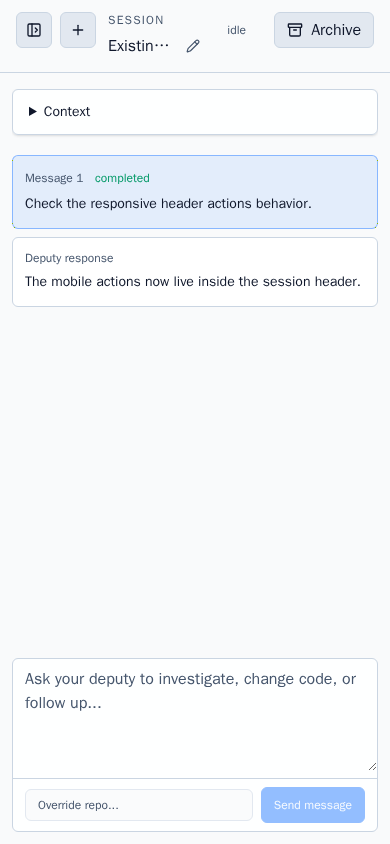
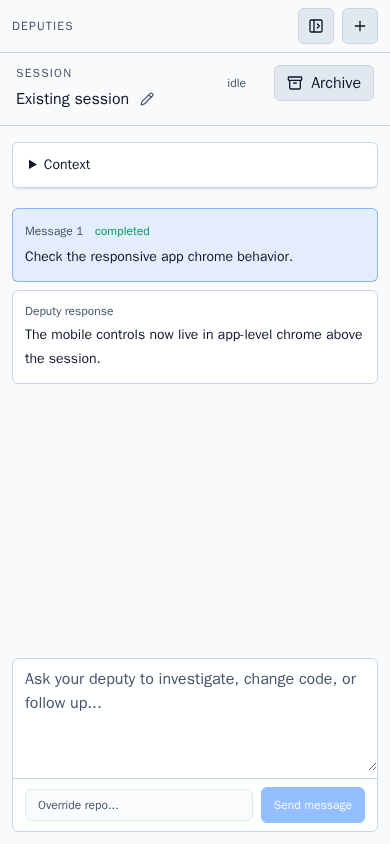
Move mobile controls to app chrome

diff --git a/apps/web/src/app.tsx b/apps/web/src/app.tsx
@@ -1,4 +1,4 @@
-import { FormEvent, KeyboardEvent, ReactNode, SyntheticEvent, WheelEvent, useEffect, useLayoutEffect, useMemo, useRef, useState } from 'react';
+import { FormEvent, KeyboardEvent, SyntheticEvent, WheelEvent, useEffect, useLayoutEffect, useMemo, useRef, useState } from 'react';
 import { AlertTriangle, Archive, Check, ChevronDown, Copy, Monitor, Moon, PanelLeftClose, PanelLeftOpen, Pencil, Plus, RefreshCw, RotateCcw, Sun, X } from 'lucide-react';
 import ReactMarkdown from 'react-markdown';
 import remarkGfm from 'remark-gfm';
@@ -868,6 +868,13 @@ export function App() {
       {startupLoading ? <StartupLoadingPanel connectionStatus={connectionStatus} /> : bearerAuthRequired && !token ? <BearerAuthPanel draftToken={draftToken} setDraftToken={setDraftToken} saveToken={saveToken} /> : sessionAuthRequired && !currentUser ? <SessionAuthPanel password={loginPassword} provider={health?.authProvider ?? 'static'} username={loginUsername} onPasswordChange={setLoginPassword} onSubmit={handleLogin} onUsernameChange={setLoginUsername} /> : (
         <>
 
+      {!sidebarOpen ? (
+        <div className="flex shrink-0 items-center justify-between border-b border-border bg-background/95 px-3 py-2 backdrop-blur md:hidden">
+          <span className="text-xs font-semibold uppercase tracking-widest text-muted-foreground">Deputies</span>
+          <MobileSessionActions canCallApi={canCallApi} onNewThread={startNewThread} onOpenSidebar={expandSidebar} />
+        </div>
+      ) : null}
+
       <section className={cn('grid min-h-0 flex-1 grid-cols-1', sidebarCollapsed ? 'md:grid-cols-[3.75rem_minmax(0,1fr)]' : 'md:grid-cols-[18rem_minmax(0,1fr)]')}>
         {sidebarCollapsed ? (
           <aside className="hidden min-h-0 border-r border-border bg-card/95 p-3 md:flex">
@@ -913,7 +920,6 @@ export function App() {
               <NewThreadPanel
                 canCallApi={canCallApi}
                 loading={loading}
-                mobileActions={<MobileSessionActions canCallApi={canCallApi} onNewThread={startNewThread} onOpenSidebar={expandSidebar} />}
                 prompt={newThreadPrompt}
                 repository={newThreadRepository}
                 onPromptChange={setNewThreadPrompt}
@@ -924,7 +930,6 @@ export function App() {
             <section className="flex h-full min-h-0 flex-col">
               <ThreadHeader
                 editingTitle={editingTitle}
-                mobileActions={<MobileSessionActions canCallApi={canCallApi} onNewThread={startNewThread} onOpenSidebar={expandSidebar} />}
                 selectedSession={selectedSession}
                 titleDraft={titleDraft}
                 onArchive={handleArchiveSession}
@@ -1286,7 +1291,6 @@ function MobileSessionActions(props: {
 function NewThreadPanel(props: {
   canCallApi: boolean;
   loading: boolean;
-  mobileActions?: ReactNode;
   prompt: string;
   repository: string;
   onPromptChange: (value: string) => void;
@@ -1296,7 +1300,6 @@ function NewThreadPanel(props: {
   return (
     <section className="grid min-h-screen place-items-center px-4">
       <Card className="w-full max-w-2xl p-5">
-        {props.mobileActions ? <div className="mb-4 flex md:hidden">{props.mobileActions}</div> : null}
         <p className="text-xs font-semibold uppercase tracking-widest text-primary">Deputies</p>
         <h1 className="mt-2 text-3xl font-semibold tracking-tight text-foreground">Engineering agents for delegated work.</h1>
         <p className="mt-2 text-sm text-muted-foreground">Assign follow-ups, watch the work trail, and inspect the results.</p>
@@ -1354,7 +1357,6 @@ function MessageComposer(props: {
 
 function ThreadHeader(props: {
   editingTitle: boolean;
-  mobileActions?: ReactNode;
   selectedSession: Session;
   titleDraft: string;
   onArchive: () => void;
@@ -1364,8 +1366,7 @@ function ThreadHeader(props: {
   onUpdateTitle: (event: FormEvent) => void;
 }) {
   return (
-    <section className="sticky top-0 z-20 grid grid-cols-[auto_minmax(0,1fr)_auto] items-start gap-3 border-b border-border bg-background/95 px-4 py-3 backdrop-blur md:grid-cols-[minmax(0,1fr)_auto]">
-      {props.mobileActions ? <div className="md:hidden">{props.mobileActions}</div> : null}
+    <section className="sticky top-0 z-20 grid grid-cols-[minmax(0,1fr)_auto] items-start gap-3 border-b border-border bg-background/95 px-4 py-3 backdrop-blur">
       <div className="min-w-0 overflow-hidden">
         <p className="text-xs font-semibold uppercase tracking-widest text-muted-foreground">Session</p>
         {props.editingTitle ? (

diff --git a/apps/web/e2e/responsive-context.spec.ts b/apps/web/e2e/responsive-context.spec.ts
@@ -25,7 +25,7 @@ test('keeps context collapsed by default on narrow screens', async ({ page }) =>
   expect(messageLogHeight).toBeGreaterThan(300);
 });
 
-test('keeps mobile session controls in the header without covering the session title', async ({ page }) => {
+test('keeps mobile session controls in app chrome without covering the session title', async ({ page }) => {
   await page.setViewportSize({ width: 390, height: 844 });
   await page.goto('/');
 
@@ -39,7 +39,7 @@ test('keeps mobile session controls in the header without covering the session t
 
   const controlsBox = await openSessions.locator('..').evaluate((element) => element.getBoundingClientRect().toJSON());
   const titleBox = await title.evaluate((element) => element.getBoundingClientRect().toJSON());
-  expect(titleBox.x).toBeGreaterThanOrEqual(controlsBox.x + controlsBox.width + 8);
+  expect(controlsBox.y + controlsBox.height).toBeLessThanOrEqual(titleBox.y);
 });
 
 test('shows context as a sidebar on wide screens', async ({ page }) => {